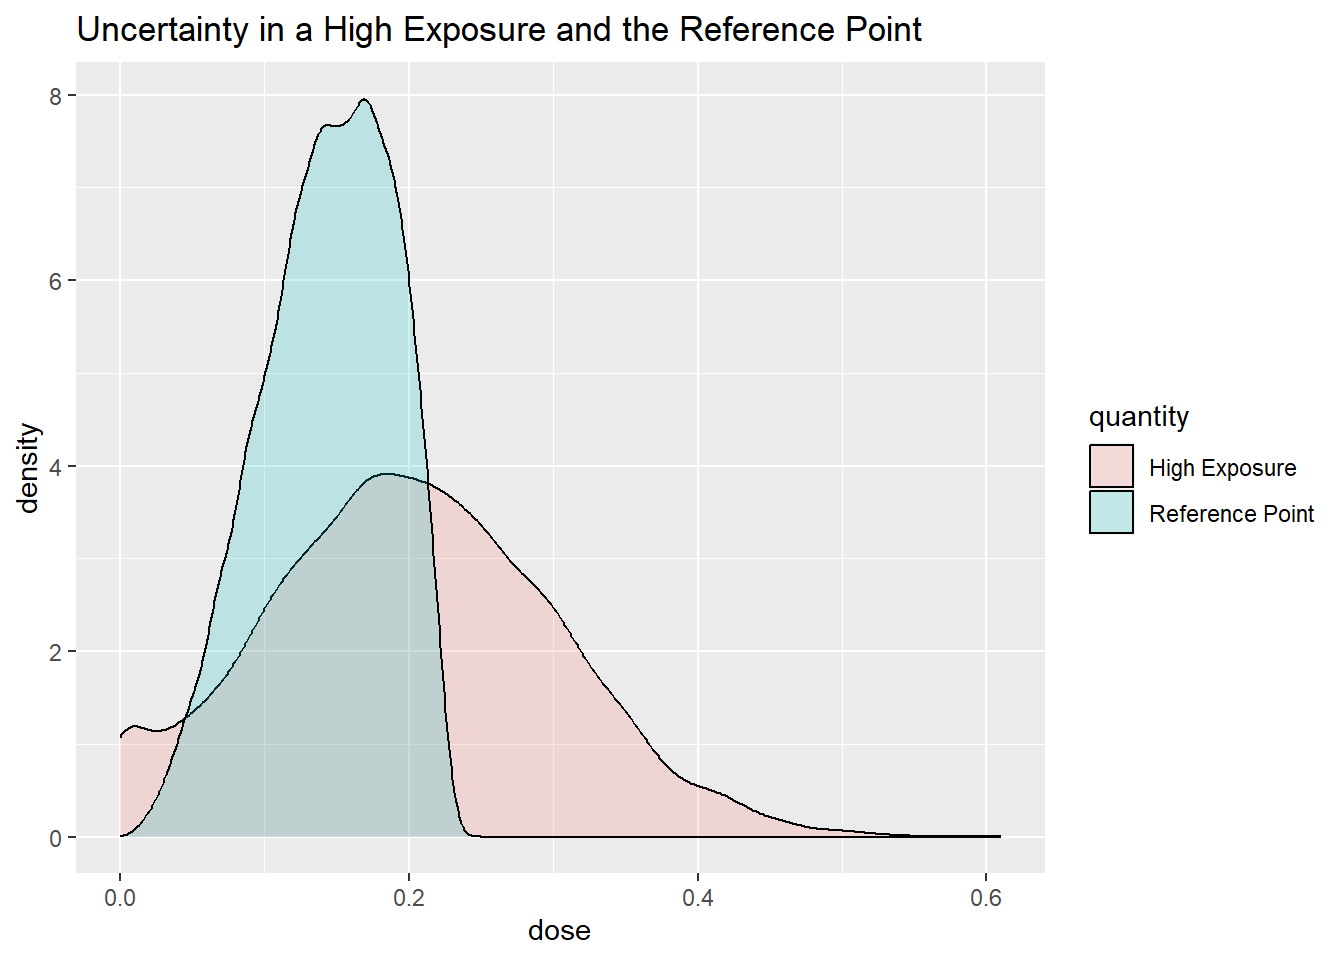
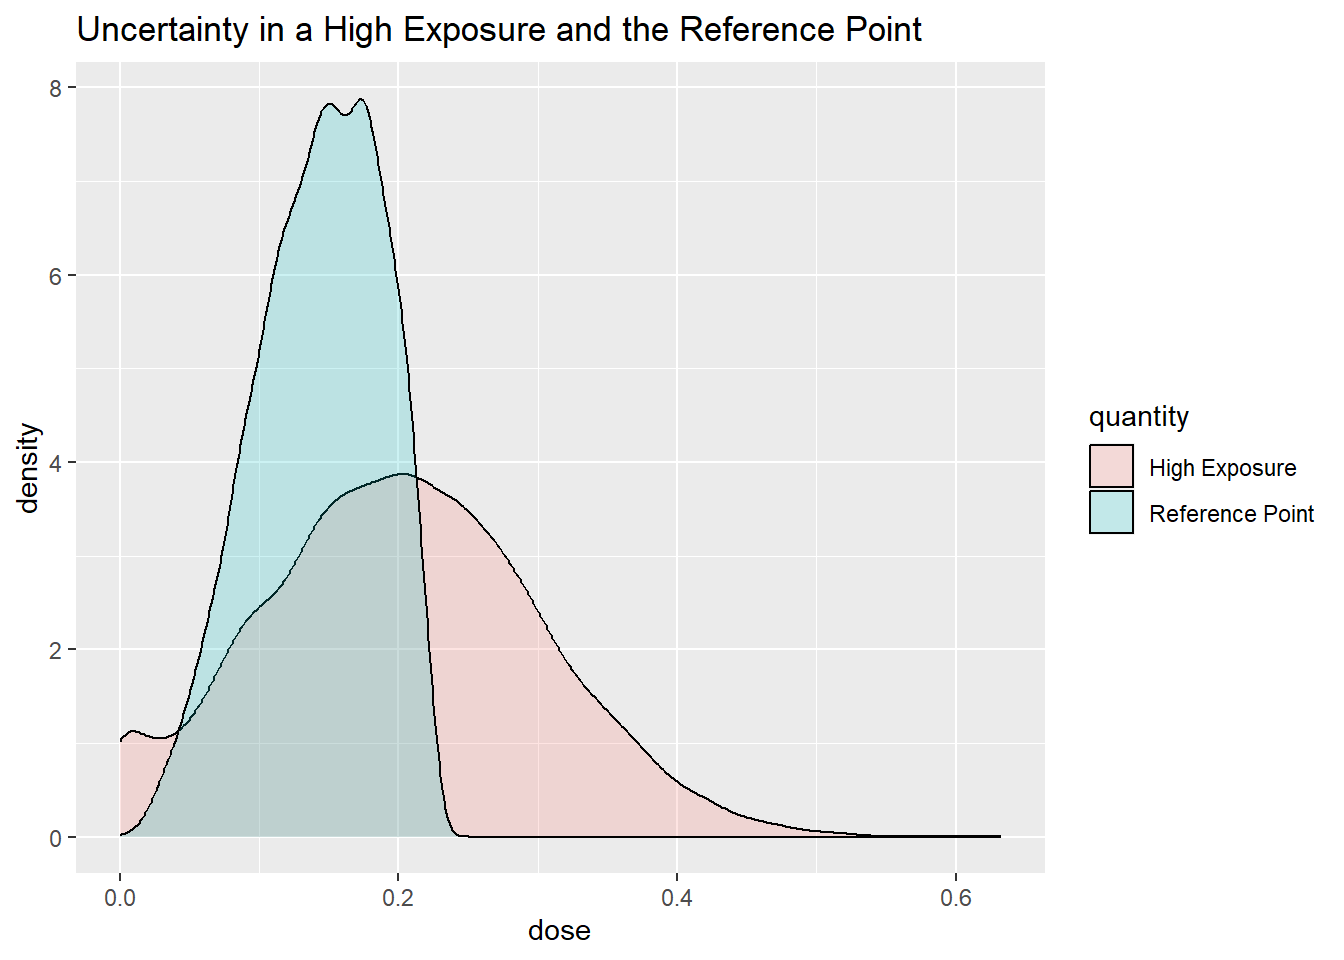
for the meeting

diff --git a/docs/uncertainty_fact.html b/docs/uncertainty_fact.html
@@ -6,8 +6,9 @@
 
 <meta name="viewport" content="width=device-width, initial-scale=1.0, user-scalable=yes">
 
+<meta name="author" content="Ullrika Sahlin, Dawei Tang, …">
 
-<title>RH3_uncertainty - Uncertainty frameworks</title>
+<title>RH3_uncertainty - A tiered uncertainty analysis to assess uncertainty in a fact</title>
 <style>
 code{white-space: pre-wrap;}
 span.smallcaps{font-variant: small-caps;}
@@ -82,7 +83,7 @@ ul.task-list li input[type="checkbox"] {
           <div class="collapse navbar-collapse" id="navbarCollapse">
             <ul class="navbar-nav navbar-nav-scroll me-auto">
   <li class="nav-item">
-    <a class="nav-link active" href="./index.html" rel="" target="" aria-current="page">
+    <a class="nav-link" href="./index.html" rel="" target="">
  <span class="menu-text">Home</span></a>
   </li>  
 </ul>
@@ -101,10 +102,14 @@ ul.task-list li input[type="checkbox"] {
     <h2 id="toc-title">On this page</h2>
    
   <ul>
-  <li><a href="#uncertainty-in-a-categorical-conclusion" id="toc-uncertainty-in-a-categorical-conclusion" class="nav-link active" data-scroll-target="#uncertainty-in-a-categorical-conclusion">Uncertainty in a <strong>categorical-conclusion</strong></a></li>
-  <li><a href="#uncertainty-in-a-number-conclusion" id="toc-uncertainty-in-a-number-conclusion" class="nav-link" data-scroll-target="#uncertainty-in-a-number-conclusion">Uncertainty in a <strong>number-conclusion</strong></a></li>
-  <li><a href="#uncertainty-in-an-integrated-assessment-workflow" id="toc-uncertainty-in-an-integrated-assessment-workflow" class="nav-link" data-scroll-target="#uncertainty-in-an-integrated-assessment-workflow">Uncertainty in an integrated assessment workflow</a></li>
-  <li><a href="#uncertainty-in-a-scientific-hypothesis" id="toc-uncertainty-in-a-scientific-hypothesis" class="nav-link" data-scroll-target="#uncertainty-in-a-scientific-hypothesis">Uncertainty in a <strong>scientific hypothesis</strong></a></li>
+  <li><a href="#overview" id="toc-overview" class="nav-link active" data-scroll-target="#overview">Overview</a></li>
+  <li><a href="#qualitative-approaches" id="toc-qualitative-approaches" class="nav-link" data-scroll-target="#qualitative-approaches">Qualitative approaches</a></li>
+  <li><a href="#qualitative---quantitative" id="toc-qualitative---quantitative" class="nav-link" data-scroll-target="#qualitative---quantitative">Qualitative -&gt; Quantitative</a>
+  <ul class="collapse">
+  <li><a href="#starting-with-50-probability" id="toc-starting-with-50-probability" class="nav-link" data-scroll-target="#starting-with-50-probability">Starting with 50% probability</a></li>
+  <li><a href="#starting-with-0-100-probability" id="toc-starting-with-0-100-probability" class="nav-link" data-scroll-target="#starting-with-0-100-probability">Starting with 0-100% probability</a></li>
+  </ul></li>
+  <li><a href="#fully-quantitative" id="toc-fully-quantitative" class="nav-link" data-scroll-target="#fully-quantitative">Fully quantitative</a></li>
   </ul>
 </nav>
     </div>
@@ -113,13 +118,20 @@ ul.task-list li input[type="checkbox"] {
 
 <header id="title-block-header" class="quarto-title-block default">
 <div class="quarto-title">
-<h1 class="title">Uncertainty frameworks</h1>
+<h1 class="title">A tiered uncertainty analysis to assess uncertainty in a fact</h1>
+<p class="subtitle lead">Work in progress RiskHunt3r</p>
 </div>
 
 
 
 <div class="quarto-title-meta">
 
+    <div>
+    <div class="quarto-title-meta-heading">Author</div>
+    <div class="quarto-title-meta-contents">
+             <p>Ullrika Sahlin, Dawei Tang, … </p>
+          </div>
+  </div>
     
   
     
@@ -128,23 +140,38 @@ ul.task-list li input[type="checkbox"] {
 
 </header>
 
-<section id="uncertainty-in-a-categorical-conclusion" class="level1">
-<h1>Uncertainty in a <strong>categorical-conclusion</strong></h1>
-<p>Approaches for uncertainty analysis when making a categorical conclusion, e.g.&nbsp;there is a causal association to adverse health effect or not <a href="./uncertainty_fact.html">Page</a></p>
-<p>Includes an hazard identification, considering multiple streams of evidence.</p>
+<section id="overview" class="level2">
+<h2 class="anchored" data-anchor-id="overview">Overview</h2>
+<p>The purpose of an uncertainty analysis is to identify sources of uncertainty and evaluate their combined impact on the experts uncertainty in a categorical outcome of interest.</p>
+<p>This page describe an approach to quantify uncertainty examplified by hazard identification.</p>
+<p>A tiered uncertainty analysis can be</p>
+<ul>
+<li><p>an expert judgement on the outcome of interest directly</p></li>
+<li><p>an expert judgement on the outcome of interest considering uncertainties in streams of evidence (expressed qualitatively with rules how to combine them)</p></li>
+<li><p>an expert judgement on the outcome of interest considering uncertainties in streams of evidence (expressed quantitatively and a model how to combine them)</p></li>
+</ul>
 </section>
-<section id="uncertainty-in-a-number-conclusion" class="level1">
-<h1>Uncertainty in a <strong>number-conclusion</strong></h1>
-<p>A proposed tiered approach for uncertainty analysis <a href="./uncertainty_number.html">Page</a></p>
-<p>Includes a risk assessment combining assessed hazard and exposure.</p>
+<section id="qualitative-approaches" class="level2">
+<h2 class="anchored" data-anchor-id="qualitative-approaches">Qualitative approaches</h2>
+<p>Approaches resulting in a qualitative expression of uncertainty in hazard identification exists. These are also based on expert judgement, but where uncertainty is expressed qualitatively.</p>
+<p>A qualitative expression for uncertainty is more open for different interpretations compared to a quantitative expression on a well-defined scale.</p>
+<p>Qualitative expressions for uncertainty are helpful when making a judgement on the combined impact of sources to uncertainty.</p>
+<p>A qualitative expression of uncertainty in the hazard identification can be sufficient if this goes into a continued assessment, but if hazard identification is the only assessment or there is a conclusion to be made on the hazard identification before proceeding to the next step, then a quantitative expression of uncertainty is to recommend.</p>
 </section>
-<section id="uncertainty-in-an-integrated-assessment-workflow" class="level1">
-<h1>Uncertainty in an integrated assessment workflow</h1>
-<p>To come</p>
+<section id="qualitative---quantitative" class="level2">
+<h2 class="anchored" data-anchor-id="qualitative---quantitative">Qualitative -&gt; Quantitative</h2>
+<section id="starting-with-50-probability" class="level3">
+<h3 class="anchored" data-anchor-id="starting-with-50-probability">Starting with 50% probability</h3>
 </section>
-<section id="uncertainty-in-a-scientific-hypothesis" class="level1">
-<h1>Uncertainty in a <strong>scientific hypothesis</strong></h1>
-<p>To come.</p>
+<section id="starting-with-0-100-probability" class="level3">
+<h3 class="anchored" data-anchor-id="starting-with-0-100-probability">Starting with 0-100% probability</h3>
+<p>Practical certainty</p>
+</section>
+</section>
+<section id="fully-quantitative" class="level2">
+<h2 class="anchored" data-anchor-id="fully-quantitative">Fully quantitative</h2>
+<p>Quality of evidence -&gt; Quantitative likelihood function</p>
+<p>Proceed with prior + likelihood -&gt; Posterior</p>
 
 
 </section>

diff --git a/docs/uncertainty_number.html b/docs/uncertainty_number.html
@@ -6,7 +6,7 @@
 
 <meta name="viewport" content="width=device-width, initial-scale=1.0, user-scalable=yes">
 
-<meta name="author" content="Ullrika Sahlin, Dawei Tang, N N">
+<meta name="author" content="Ullrika Sahlin, Dawei Tang, …">
 
 <title>RH3_uncertainty - A tiered uncertainty analysis to assess uncertainty in a number</title>
 <style>
@@ -179,7 +179,7 @@ pre > code.sourceCode > span > a:first-child::before { text-decoration: underlin
     <div>
     <div class="quarto-title-meta-heading">Author</div>
     <div class="quarto-title-meta-contents">
-             <p>Ullrika Sahlin, Dawei Tang, N N </p>
+             <p>Ullrika Sahlin, Dawei Tang, … </p>
           </div>
   </div>
     
@@ -193,6 +193,7 @@ pre > code.sourceCode > span > a:first-child::before { text-decoration: underlin
 <section id="overview" class="level2">
 <h2 class="anchored" data-anchor-id="overview">Overview</h2>
 <p>The purpose of an uncertainty analysis is to identify sources of uncertainty and evaluate their combined impact on the experts uncertainty in the outcome of interest.</p>
+<p>This page describe an approach to quantify uncertainty when risk is assessed by combining contious quantities on hazard and exposure.</p>
 <p>A tiered uncertainty analysis can be</p>
 <ul>
 <li><p>an expert judgement on the outcome of interest directly</p></li>
@@ -202,11 +203,11 @@ pre > code.sourceCode > span > a:first-child::before { text-decoration: underlin
 </section>
 <section id="description-of-the-assessment" class="level2">
 <h2 class="anchored" data-anchor-id="description-of-the-assessment">Description of the assessment</h2>
-<p>Consider a human health risk assessment of chemical dioxin.</p>
+<p>Consider a human health risk assessment of chemical X.</p>
 <section id="hazard-assessment" class="level3">
 <h3 class="anchored" data-anchor-id="hazard-assessment">Hazard assessment</h3>
 <p>The quantity of interest for the hazard assessment is the Reference Point, <strong>RP</strong>.</p>
-<p>As an example, a RP of 3 μg dioxin/kg bw per day was identified by the experts as the BMDL from a model average of BMD modelling for a relevant human effect.</p>
+<p>As an example, a RP of 3 μg X/kg bw per day was identified by the experts as the BMDL from a model average of BMD modelling for a relevant human effect.</p>
 <p>Model Averaged BMD model</p>
 <table class="table">
 <thead>
@@ -228,7 +229,7 @@ pre > code.sourceCode > span > a:first-child::before { text-decoration: underlin
 <section id="exposure-assessment" class="level3">
 <h3 class="anchored" data-anchor-id="exposure-assessment">Exposure assessment</h3>
 <p>The quantity of interest for the exposure assessment is a High Exposure, <strong>HE</strong>.</p>
-<p>The range (seen over different populations and data sets) of the exposure estimates for dioxin was assessed as</p>
+<p>The range (seen over different populations and data sets) of the exposure estimates for X was assessed as</p>
 <ul>
 <li><p>1 - 2 μg/kg bw per day for an average exposure scenario and</p></li>
 <li><p>2 - 4 μg/kg bw per day for a high-level exposure scenario.</p></li>
@@ -238,7 +239,7 @@ pre > code.sourceCode > span > a:first-child::before { text-decoration: underlin
 <h3 class="anchored" data-anchor-id="risk-characterisation">Risk characterisation</h3>
 <p>The outcome of interest is the event that the High Exposure is exceeding the Reference Point, i.e.&nbsp;</p>
 <p><span class="math display">\[HE &gt; RP\]</span> Another way of formulating this is as a Margin of Exposure <strong>MOE</strong> defined as <span class="math display">\[MOE=\frac{RP}{HE}\]</span></p>
-<p>In the risk assessment on dioxin the derived MOEs range between</p>
+<p>In the risk assessment on X the derived MOEs range between</p>
 <ul>
 <li><p>3 - 1.5 for the average exposure scenario and</p></li>
 <li><p>1.5 - 0.8 for high level exposure scenario, respectively.</p></li>
@@ -356,7 +357,7 @@ Comment
 <p>Use a conservative estimate for RP as starting point and use experts judgement on their uncertainty for that to guide what value to consider for the exposure part.</p>
 <p>Ask experts to judge their probability expressing their uncertainty about a conservative estimate of hazard, e.g.&nbsp;the BMDL,</p>
 <p><span class="math display">\[y = 3\]</span></p>
-<p>The experts judge that they are 95% certain that the Reference Point is above 3 μg dioxin/kg bw per day.</p>
+<p>The experts judge that they are 95% certain that the Reference Point is above 3 μg X/kg bw per day.</p>
 <p><span class="math display">\[P(RP &gt; y) = 95\%\]</span></p>
 <table class="table">
 <thead>
@@ -379,7 +380,7 @@ Comment
 <p>Find a value on a High Exposure where the MOE is at the critical threshold set by risk managers</p>
 <p><span class="math display">\[\frac{x}{y} = 1\]</span></p>
 <p><span class="math display">\[x = 1 \cdot y = 3\]</span></p>
-<p>Ask the experts to judge their probability that a High Exposure is below 3 μg dioxin/kg bw per day.</p>
+<p>Ask the experts to judge their probability that a High Exposure is below 3 μg X/kg bw per day.</p>
 <p><span class="math display">\[P( HE &lt; x) = 95\%\]</span></p>
 <table class="table">
 <thead>

diff --git a/docs/uncertainty_analysis.html b/docs/uncertainty_analysis.html
@@ -443,8 +443,8 @@ pre > code.sourceCode > span > a:first-child::before { text-decoration: underlin
 <div class="cell">
 <div class="sourceCode cell-code" id="cb1"><pre class="sourceCode r code-with-copy"><code class="sourceCode r"><span id="cb1-1"><a href="#cb1-1" aria-hidden="true" tabindex="-1"></a><span class="fl">0.23</span> <span class="sc">*</span> <span class="fu">rbeta</span>(<span class="at">n =</span> <span class="dv">10</span>, <span class="at">shape1 =</span> <span class="fl">3.15</span>, <span class="at">shape2 =</span> <span class="fl">1.92</span>)</span></code><button title="Copy to Clipboard" class="code-copy-button"><i class="bi"></i></button></pre></div>
 <div class="cell-output cell-output-stdout">
-<pre><code> [1] 0.10648506 0.16472225 0.17596587 0.17855370 0.20263209 0.20472002
- [7] 0.09940914 0.13522647 0.07221171 0.15867970</code></pre>
+<pre><code> [1] 0.11842925 0.06602936 0.17059759 0.12661869 0.16759476 0.14890892
+ [7] 0.21300588 0.17142064 0.09618013 0.07730394</code></pre>
 </div>
 </div>
 <p>This beta-distribution is defined as</p>
